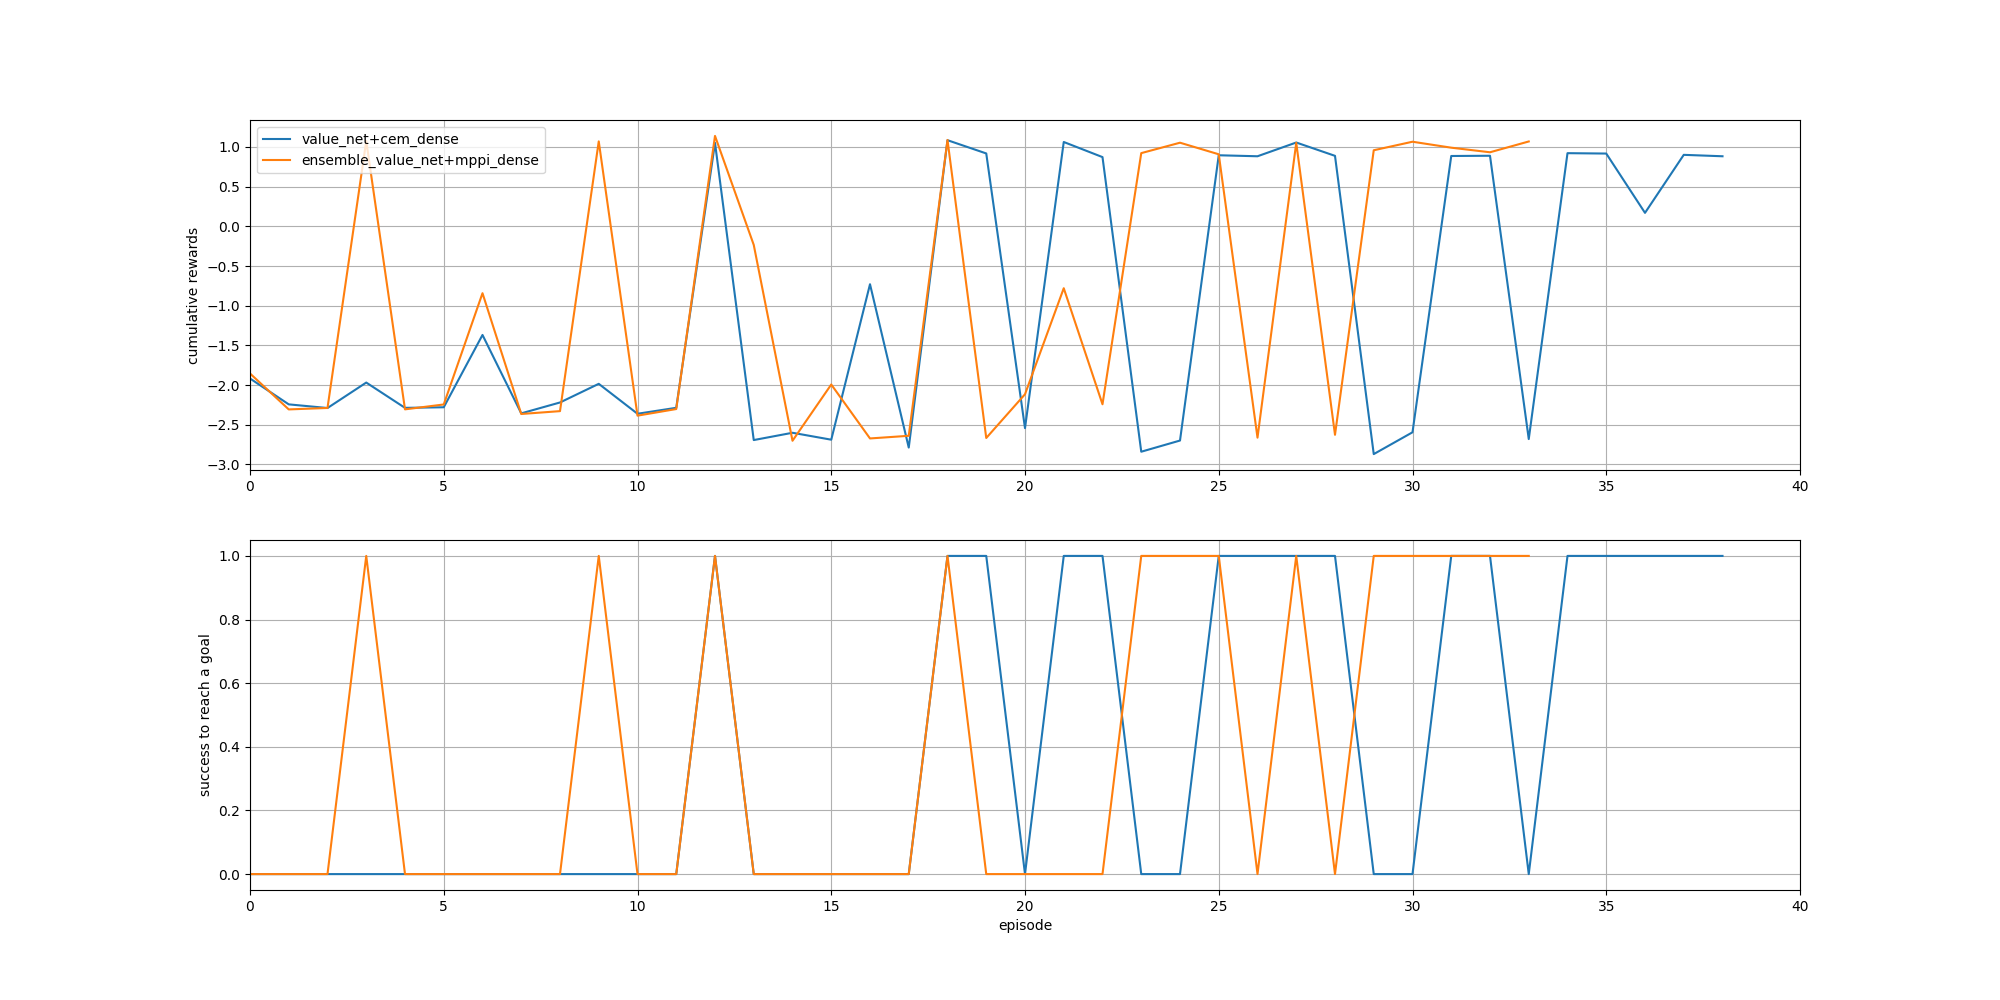
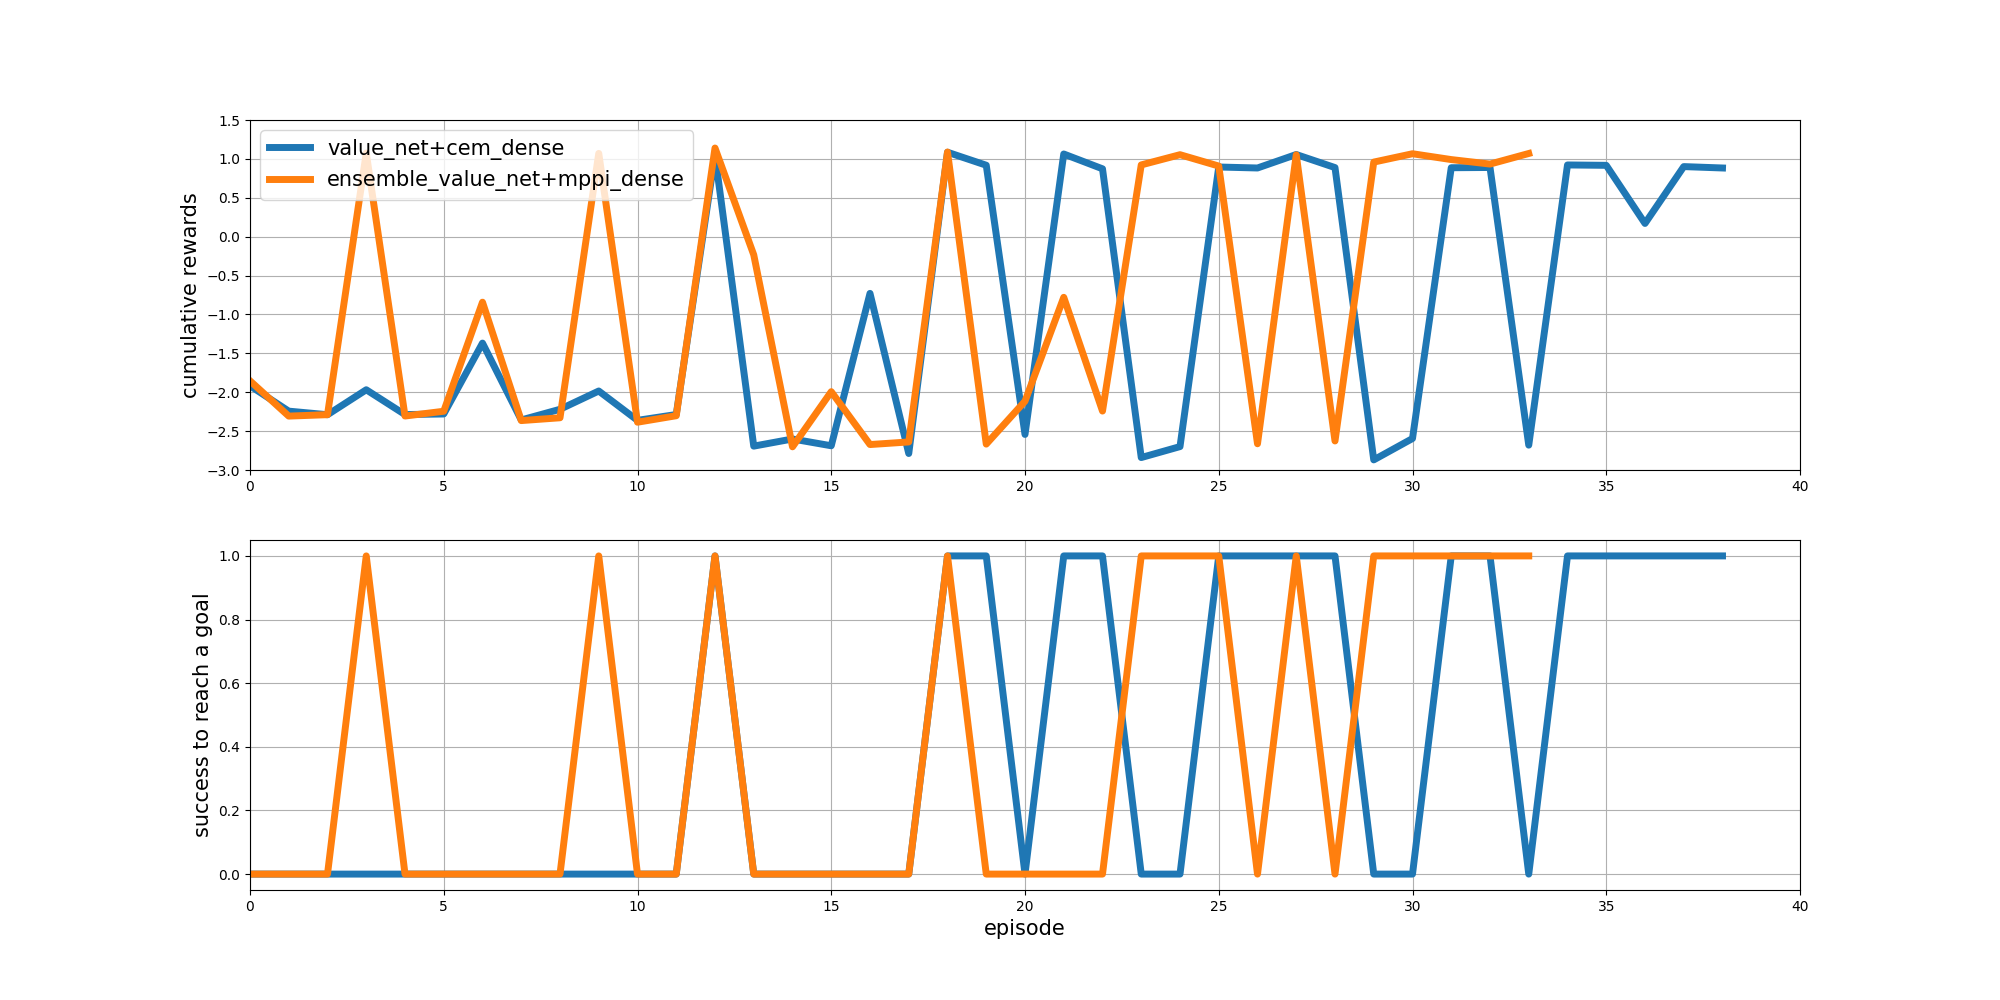
img 편집

diff --git a/postprocess/write_reward_plot.py b/postprocess/write_reward_plot.py
@@ -52,18 +52,19 @@ class RewardPlotter(object):
             
             model_name_list = file_path.split('/')
             
-            ax1.plot(rewards_per_episode, label=model_name_list[1] + "+" + model_name_list[2])
+            ax1.plot(rewards_per_episode, label=model_name_list[1] + "+" + model_name_list[2], linewidth=5)
         
-            ax2.plot(is_reach_per_episode)
+            ax2.plot(is_reach_per_episode, linewidth=5)
         
-        ax1.set_ylabel("cumulative rewards")
+        ax1.set_ylabel("cumulative rewards", fontsize=15)
         
         ax1.grid()
-        ax1.legend(loc='upper left')
+        ax1.legend(loc='upper left', fontsize=15)
         ax1.set_xlim([0, 40])
+        ax1.set_ylim([-3, 1.5])
         
-        ax2.set_ylabel("success to reach a goal")
-        ax2.set_xlabel("episode")
+        ax2.set_ylabel("success to reach a goal", fontsize=15)
+        ax2.set_xlabel("episode", fontsize=15)
         ax2.set_xlim([0, 40])
         ax2.grid()
         
